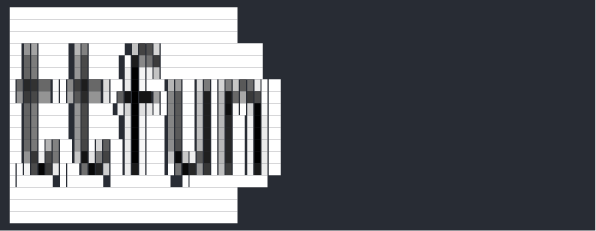
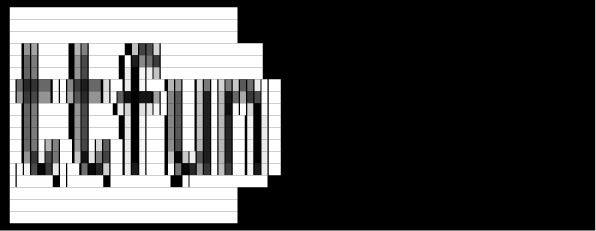
0.3.1

diff --git a/README.md b/README.md
@@ -134,10 +134,19 @@ ttfun -V
 ```
 
 ```text
-ttfun 0.3.0
+ttfun 0.3.1
 ```
 
 ## Examples
+
+> [!WARNING]
+> As of version `0.3.0`, the actual text outputs for the examples were moved to [`README-TERM.md`]
+> and replaced with screenshot outputs captured via [`termframe`] and [`resvg`].
+> While they are better than viewing unsupported Unicode text block characters and terminal color
+> codes on a webpage, they still look a bit janky (slight gapping in all but it's especially bad in
+> the full-color examples).
+> For a pixel-perfect viewing experience, recommend viewing in terminal via `ttfun -R` or
+> `bat -pl md README-TERM.md`.
 
 ```bash
 ttfun
@@ -443,4 +452,13 @@ https://www.unicode.org/Public/latest/charts/nameslist/1fb00/
 
 [Symbols for Legacy Computing Supplement]:
 https://www.unicode.org/Public/latest/charts/nameslist/1cc00/
+
+[`README-TERM.md`]:
+README-TERM.md
+
+[`resvg`]:
+https://crates.io/crates/resvg
+
+[`termframe`]:
+https://github.com/pamburus/termframe
 

diff --git a/t/README.md b/t/README.md
@@ -32,6 +32,15 @@ ttfun -V
 
 ## Examples
 
+> [!WARNING]
+> As of version `0.3.0`, the actual text outputs for the examples were moved to [`README-TERM.md`]
+> and replaced with screenshot outputs captured via [`termframe`] and [`resvg`].
+> While they are better than viewing unsupported Unicode text block characters and terminal color
+> codes on a webpage, they still look a bit janky (slight gapping in all but it's especially bad in
+> the full-color examples).
+> For a pixel-perfect viewing experience, recommend viewing in terminal via `ttfun -R` or
+> `bat -pl md README-TERM.md`.
+
 ```bash
 ttfun
 ```
@@ -366,4 +375,13 @@ https://www.unicode.org/Public/latest/charts/nameslist/1fb00/
 
 [Symbols for Legacy Computing Supplement]:
 https://www.unicode.org/Public/latest/charts/nameslist/1cc00/
+
+[`README-TERM.md`]:
+README-TERM.md
+
+[`resvg`]:
+https://crates.io/crates/resvg
+
+[`termframe`]:
+https://github.com/pamburus/termframe
 

diff --git a/CHANGELOG.md b/CHANGELOG.md
@@ -5,8 +5,14 @@
 * 0.2.0 (2026-11-02): Enable globs and stdin (`-`) for `input_files` and `input_images` (`-I`); update dependencies
   * 0.2.1 (2026-11-03): Fix descriptions for `-t` and `-n` options
 * 0.3.0 (2026-11-03): Add image-based readme for web (crates.io and github.com) and terminal output screenshots via [`termframe`] and [`resvg`]; previous readme is now at [`README-TERM.md`] and can view it in your terminal via `ttfun -R`
+  * 0.3.1 (2026-11-03): Add note to readme; fix reference link definitions; use a custom termframe theme
 
-[`README-TERM.md`]: README-TERM.md
-[`resvg`]: https://crates.io/crates/resvg
-[`termframe`]: https://github.com/pamburus/termframe
+[`README-TERM.md`]:
+README-TERM.md
+
+[`resvg`]:
+https://crates.io/crates/resvg
+
+[`termframe`]:
+https://github.com/pamburus/termframe
 
